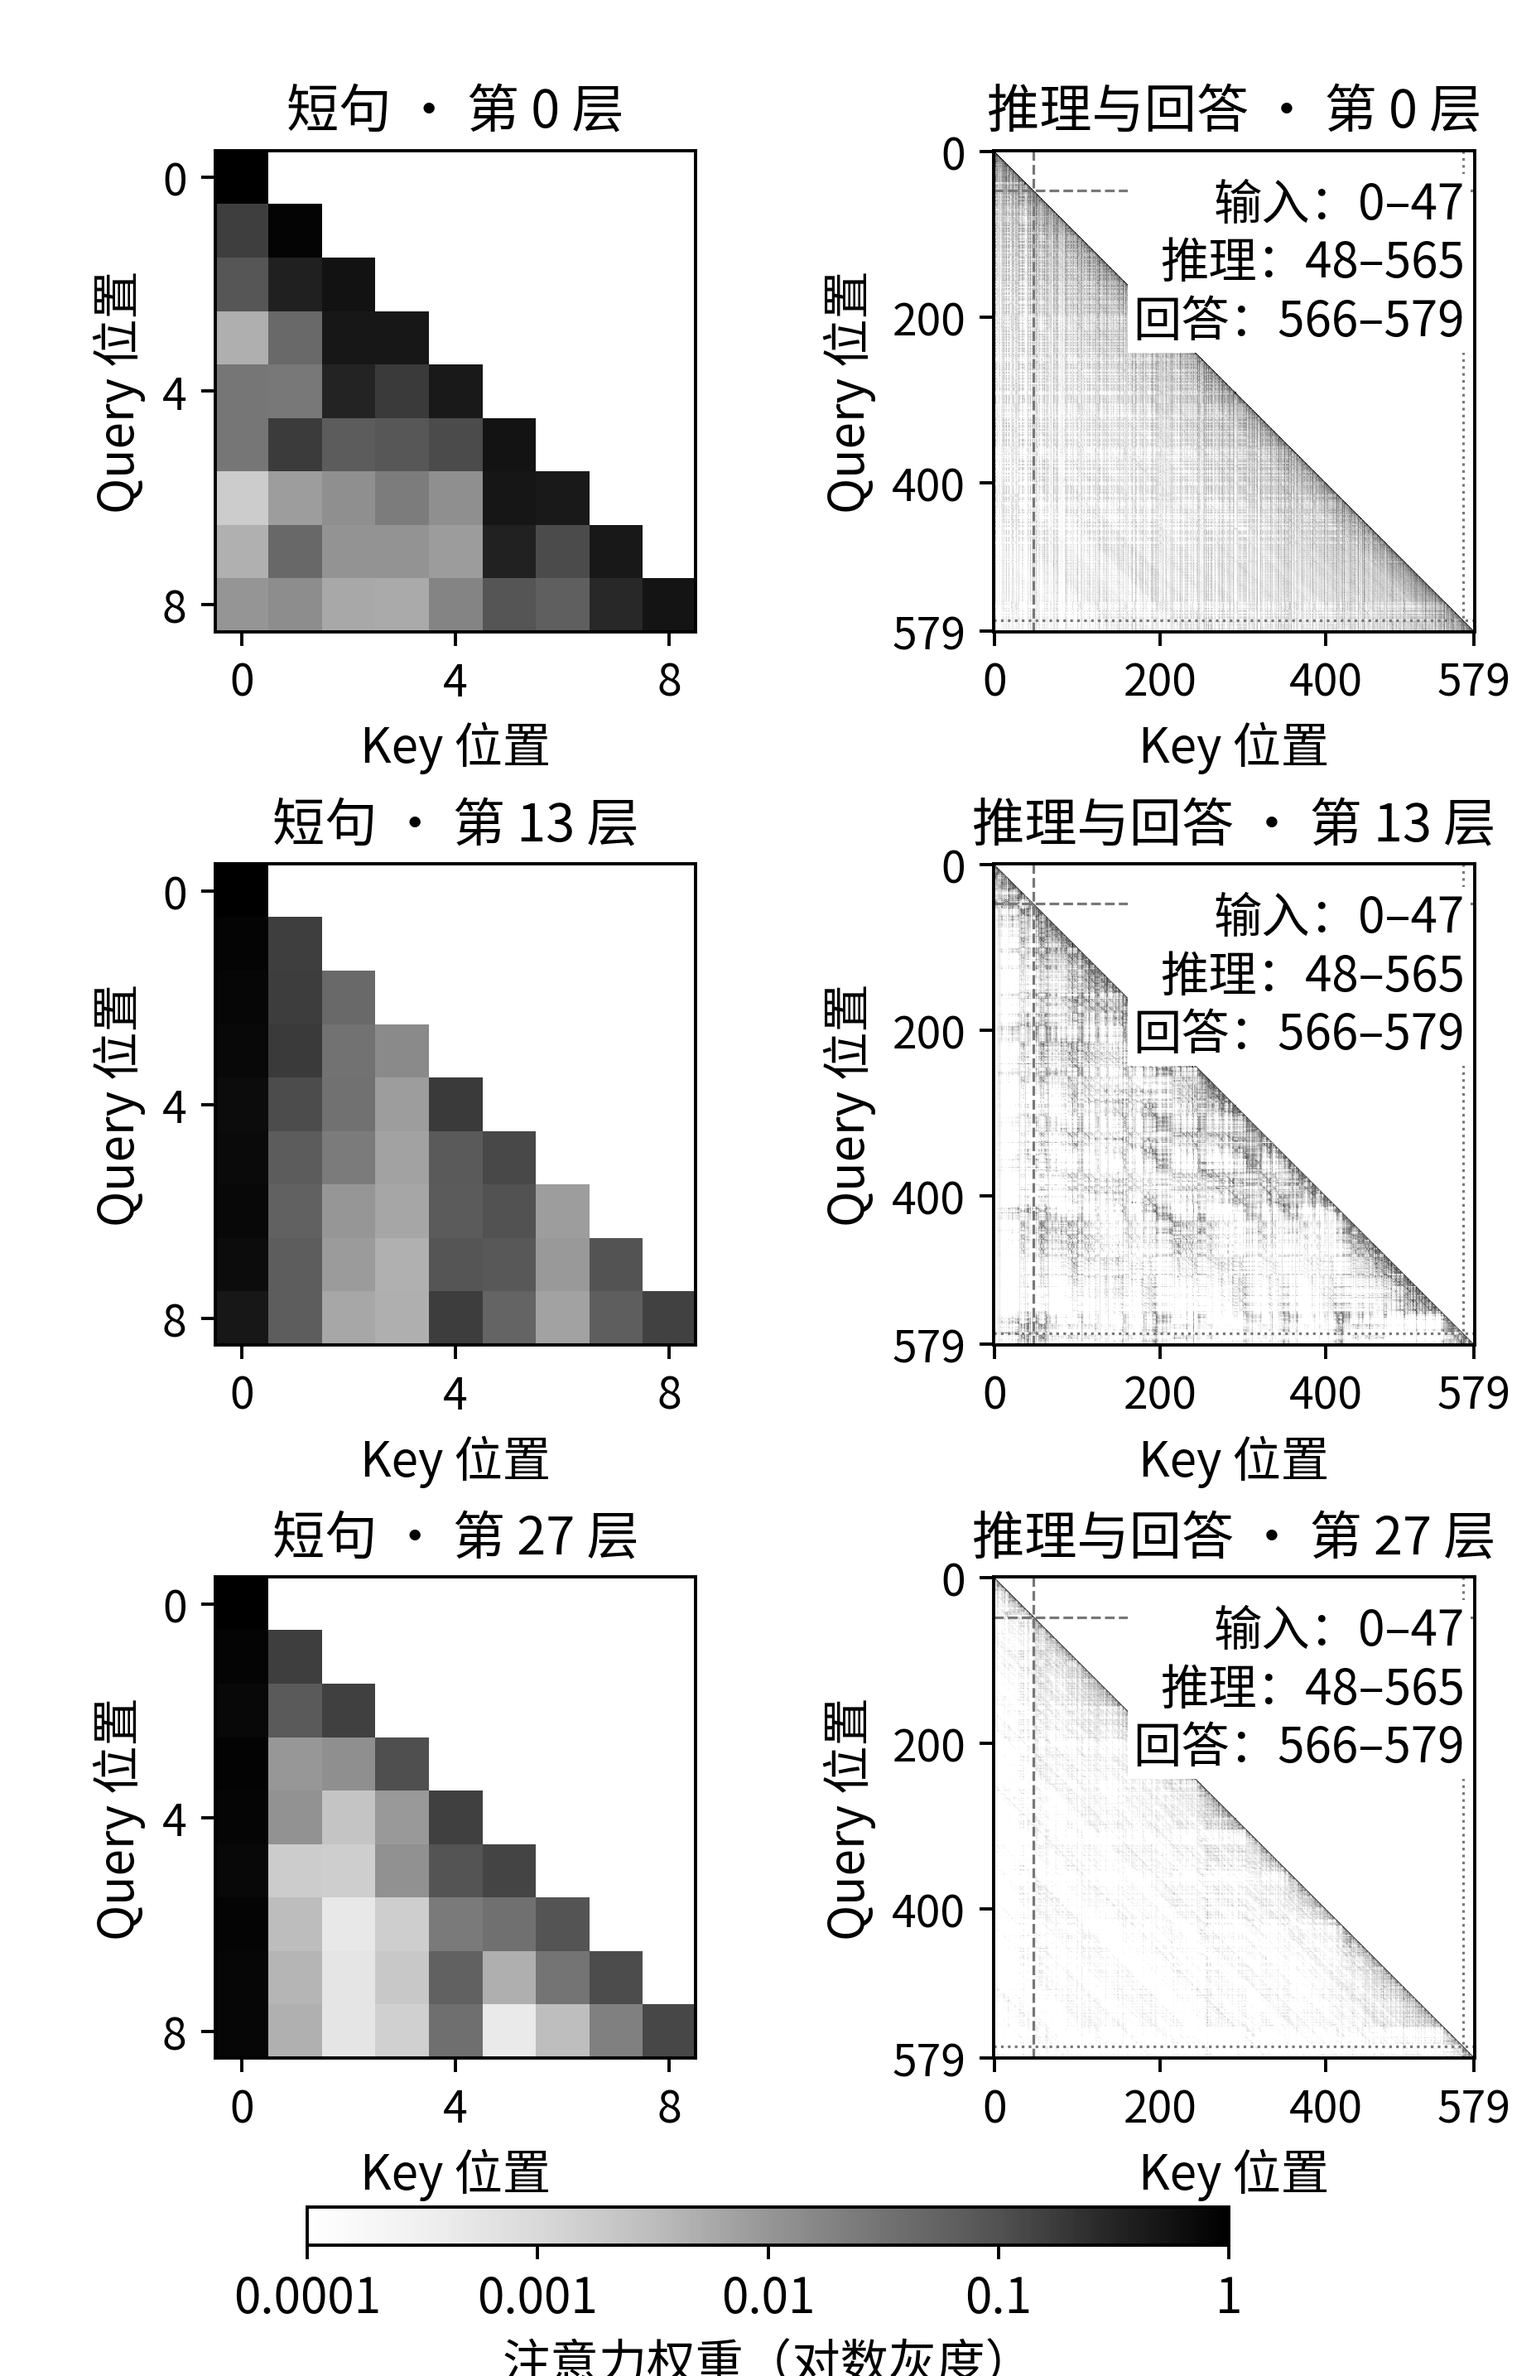
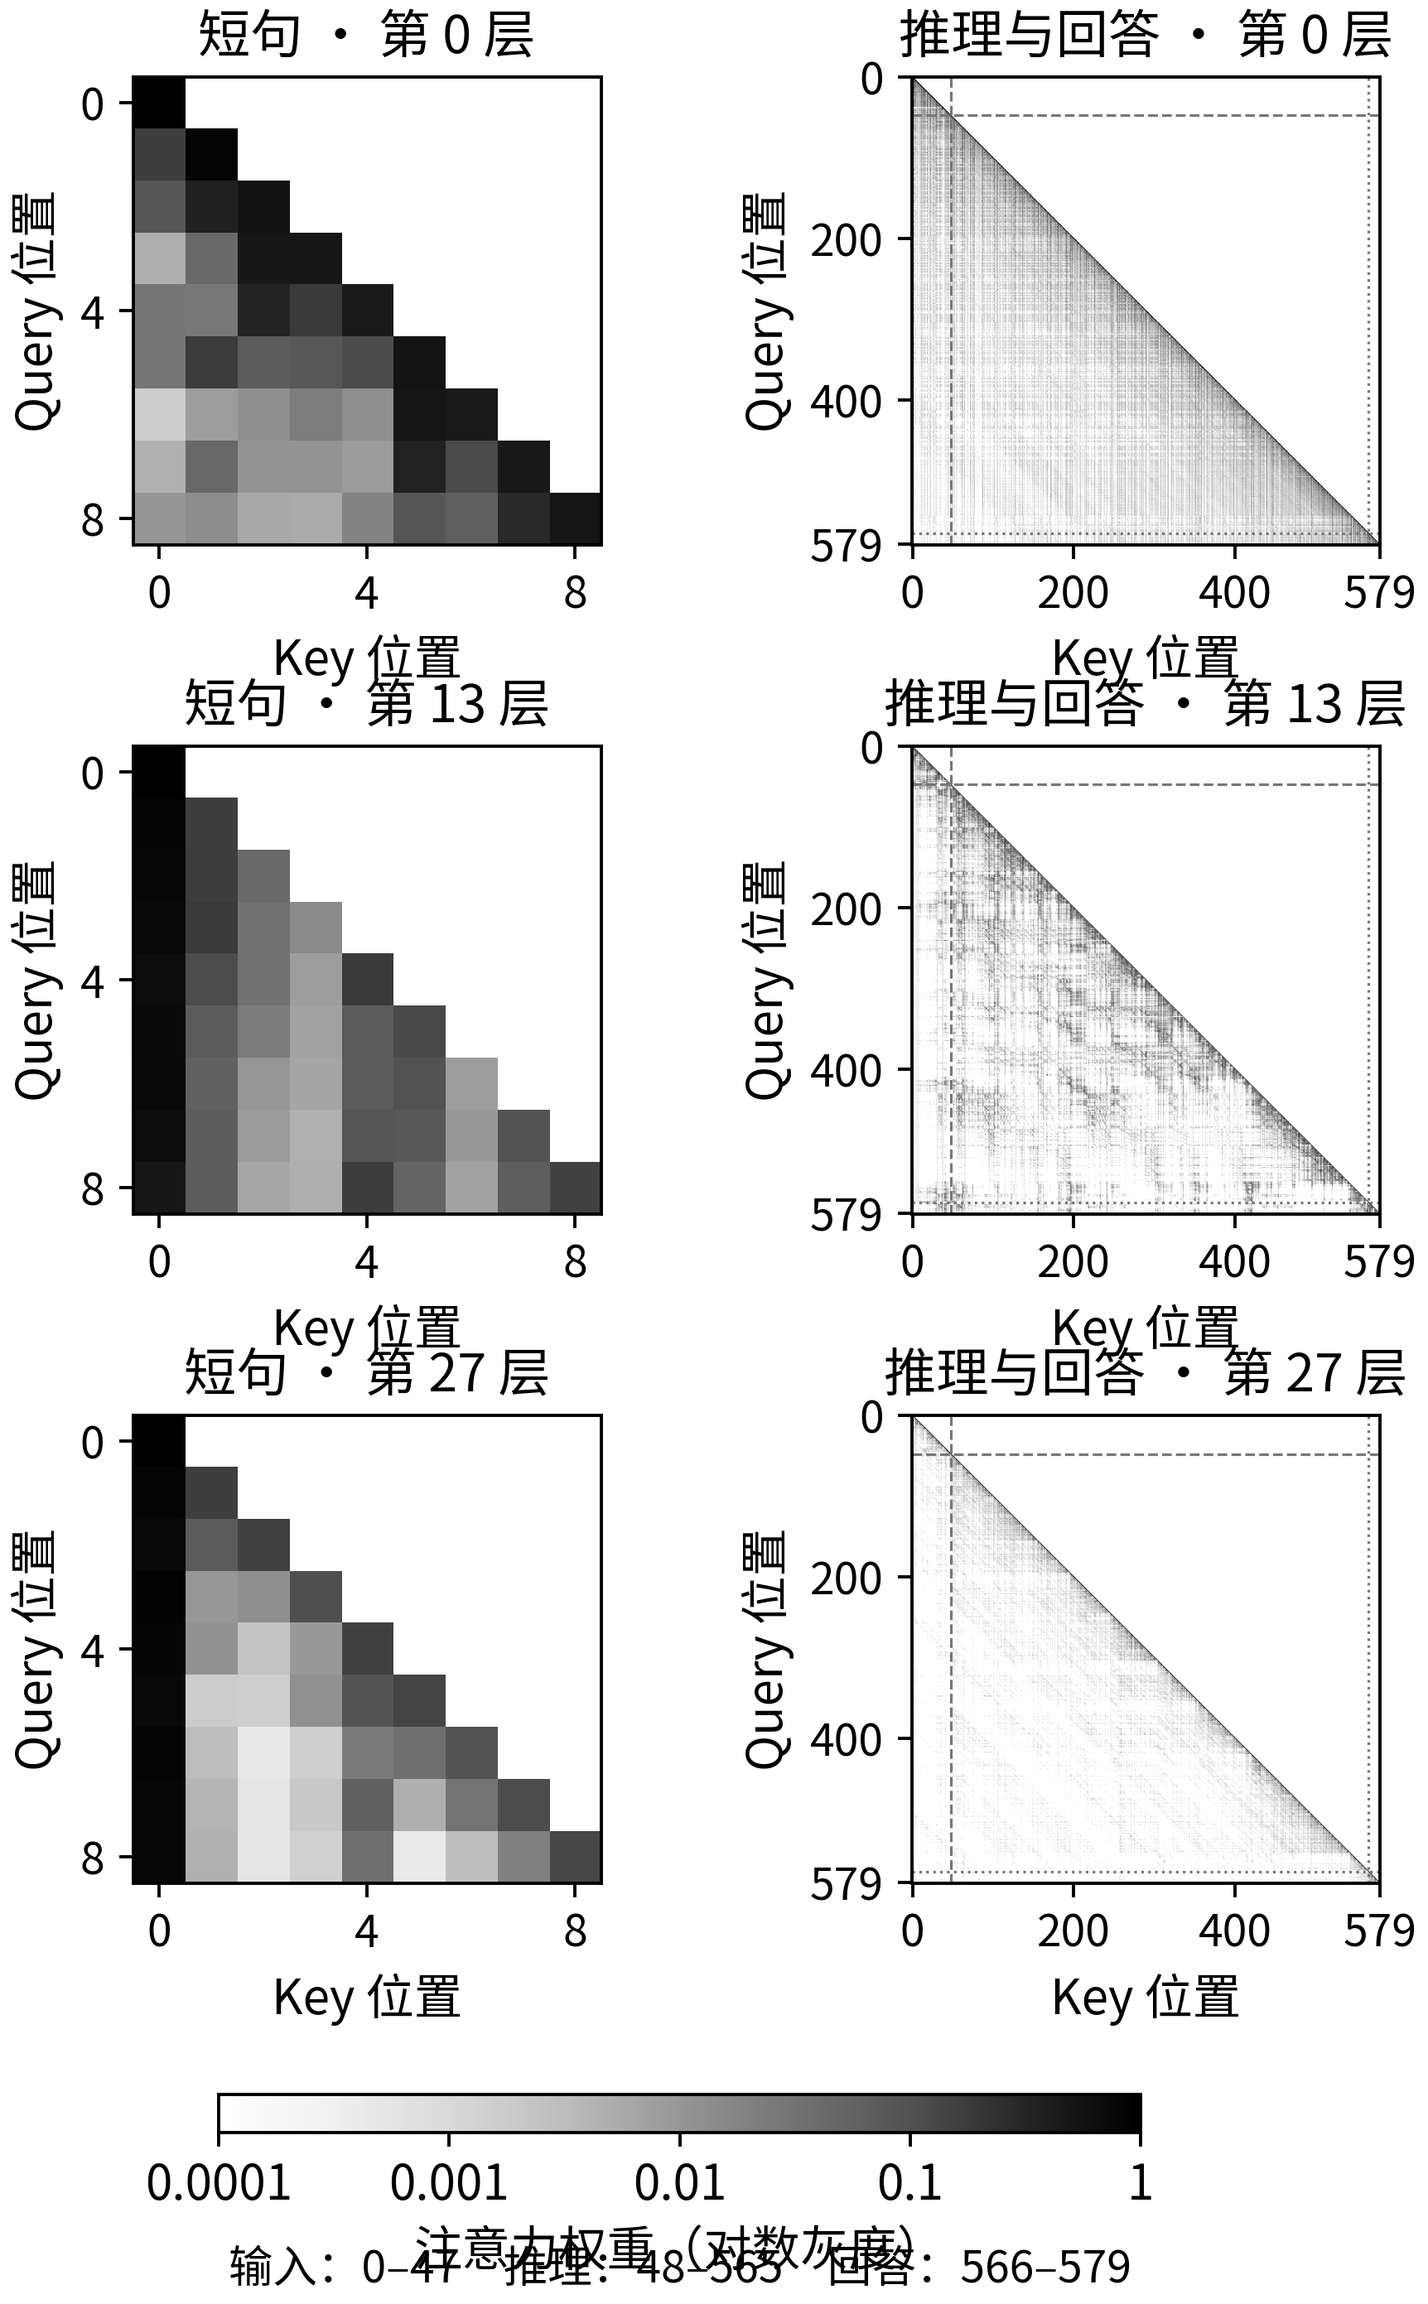
style(book): keep attention legend clear at print size

Changed region(s): [[0.0, 0.0, 1.0, 1.0], [0.2767, 0.0, 0.4611, 0.0927], [0.0, 0.371, 0.0615, 0.4946]]

diff --git a/scripts/book_figures/chapter2_attention.py b/scripts/book_figures/chapter2_attention.py
@@ -21,7 +21,7 @@ def main():
     thinking = min(evidence['generated']['regions']['thinking'])
     answer = min(evidence['generated']['regions']['answer'])
     fig, axes = plt.subplots(3, 2, figsize=(5.3, 8.2))
-    fig.subplots_adjust(left=.14, right=.96, top=.94, bottom=.13, wspace=.62, hspace=.43)
+    fig.subplots_adjust(left=.14, right=.96, top=.94, bottom=.18, wspace=.62, hspace=.43)
     cmap = plt.get_cmap('Greys').copy()
     cmap.set_bad('white')
     for row, layer in enumerate([0, 13, 27]):
@@ -37,16 +37,17 @@ def main():
             ax.set_xticks(ticks);ax.set_yticks(ticks)
             ax.tick_params(labelsize=11)
             if col:
-                ax.text(.98,.94, '输入：0–47\n推理：48–565\n回答：566–579', transform=ax.transAxes, ha='right', va='top', fontsize=12, bbox={'facecolor':'white','edgecolor':'none','pad':1.5})
                 for boundary, style in [(thinking, '--'), (answer, ':')]:
                     ax.axhline(boundary-.5, color='#777777', linestyle=style, linewidth=.65)
                     ax.axvline(boundary-.5, color='#777777', linestyle=style, linewidth=.65)
-    cax=fig.add_axes([.20,.055,.60,.016])
+    cax=fig.add_axes([.20,.075,.60,.016])
     cb=fig.colorbar(im,cax=cax,orientation='horizontal',ticks=[1e-4,1e-3,1e-2,1e-1,1])
     cb.set_ticklabels(['0.0001','0.001','0.01','0.1','1'])
     cb.ax.minorticks_off()
     cb.set_label('注意力权重（对数灰度）',fontsize=12)
-    fig.savefig(ROOT/'book/images/fig2-7.png',dpi=350,facecolor='white')
+    fig.text(.5, .012, '输入：0–47　推理：48–565　回答：566–579',
+             ha='center', fontsize=11)
+    fig.savefig(ROOT/'book/images/fig2-7.png',dpi=350,facecolor='white',bbox_inches='tight',pad_inches=.04)
     plt.close(fig)
 
 if __name__ == '__main__':

diff --git a/book/preamble.tex b/book/preamble.tex
@@ -121,7 +121,7 @@
   boxed title style={colback=accent, colframe=accent, arc=0.8mm, outer arc=0.8mm}
 }
 
-% ── Figures: force [H] so they can sit inside callout/quote boxes ─
+% ── Figures: float in body text; stay in place inside callout boxes ─
 \usepackage{float}
 \let\origfigure\figure
 \let\origendfigure\endfigure
@@ -138,13 +138,7 @@
 
 % ── Figure captions: manual numbering in text, so suppress label ──
 \usepackage{caption}
-% Captions apply \sffamily, which switches Chinese to a CJK sans (Heiti SC).
-% The earlier fix used Scale=MatchLowercase, which scales CJK down to the Latin
-% x-height — wrong for Chinese, whose glyphs should sit at the nominal point
-% size (as they do in the body, which is why the body looks fine and only
-% captions were off). Render Heiti SC at nominal size (no MatchLowercase) with a
-% faux bold, so 中文 matches the Latin in captions. Injected into captions only;
-% headings and body are untouched.
+% Match AI Infra captions with pinned Source Han Sans at nominal CJK size.
 \setCJKfamilyfont{capcjksf}[Path=fonts/,Scale=1,BoldFont=SourceHanSansCN-Bold.otf]{SourceHanSansCN-Regular.otf}
 \DeclareCaptionFont{cjkmatch}{\CJKfamily{capcjksf}}
 \captionsetup{font={small,sf,cjkmatch}, labelformat=empty, skip=4pt, justification=centering}
